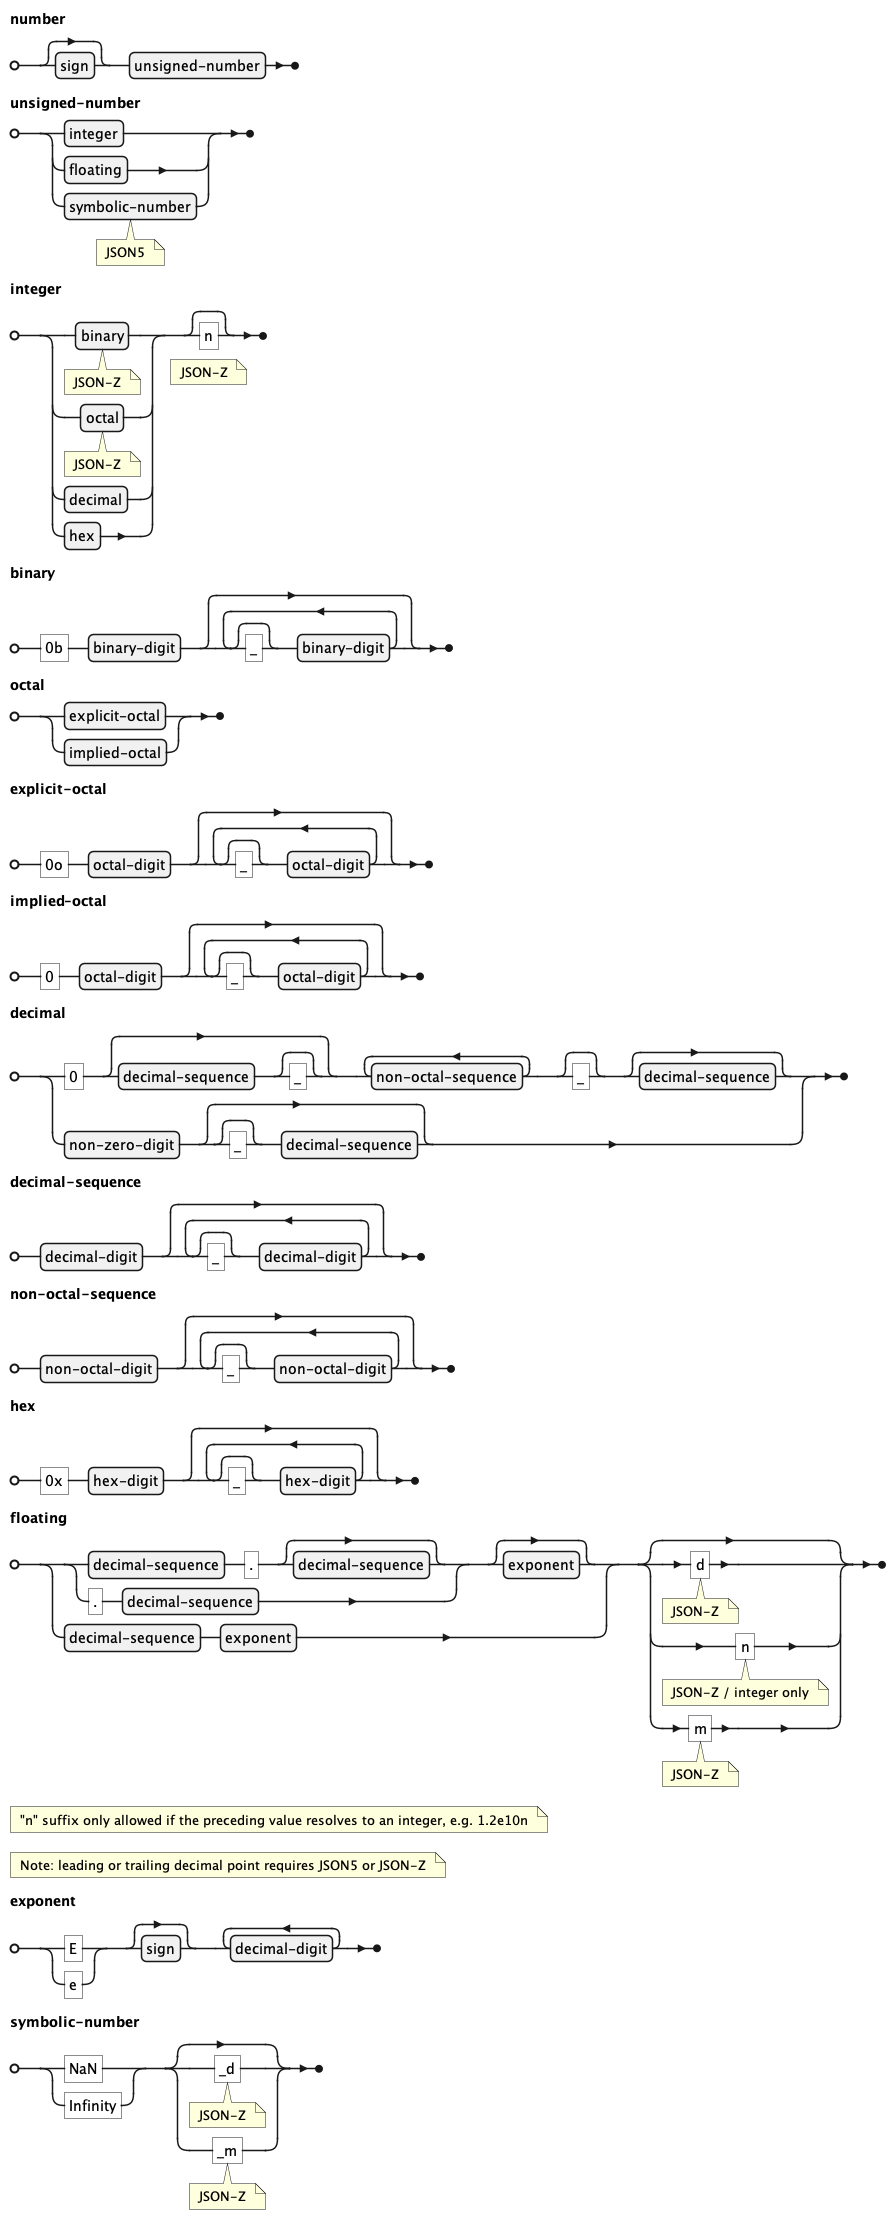
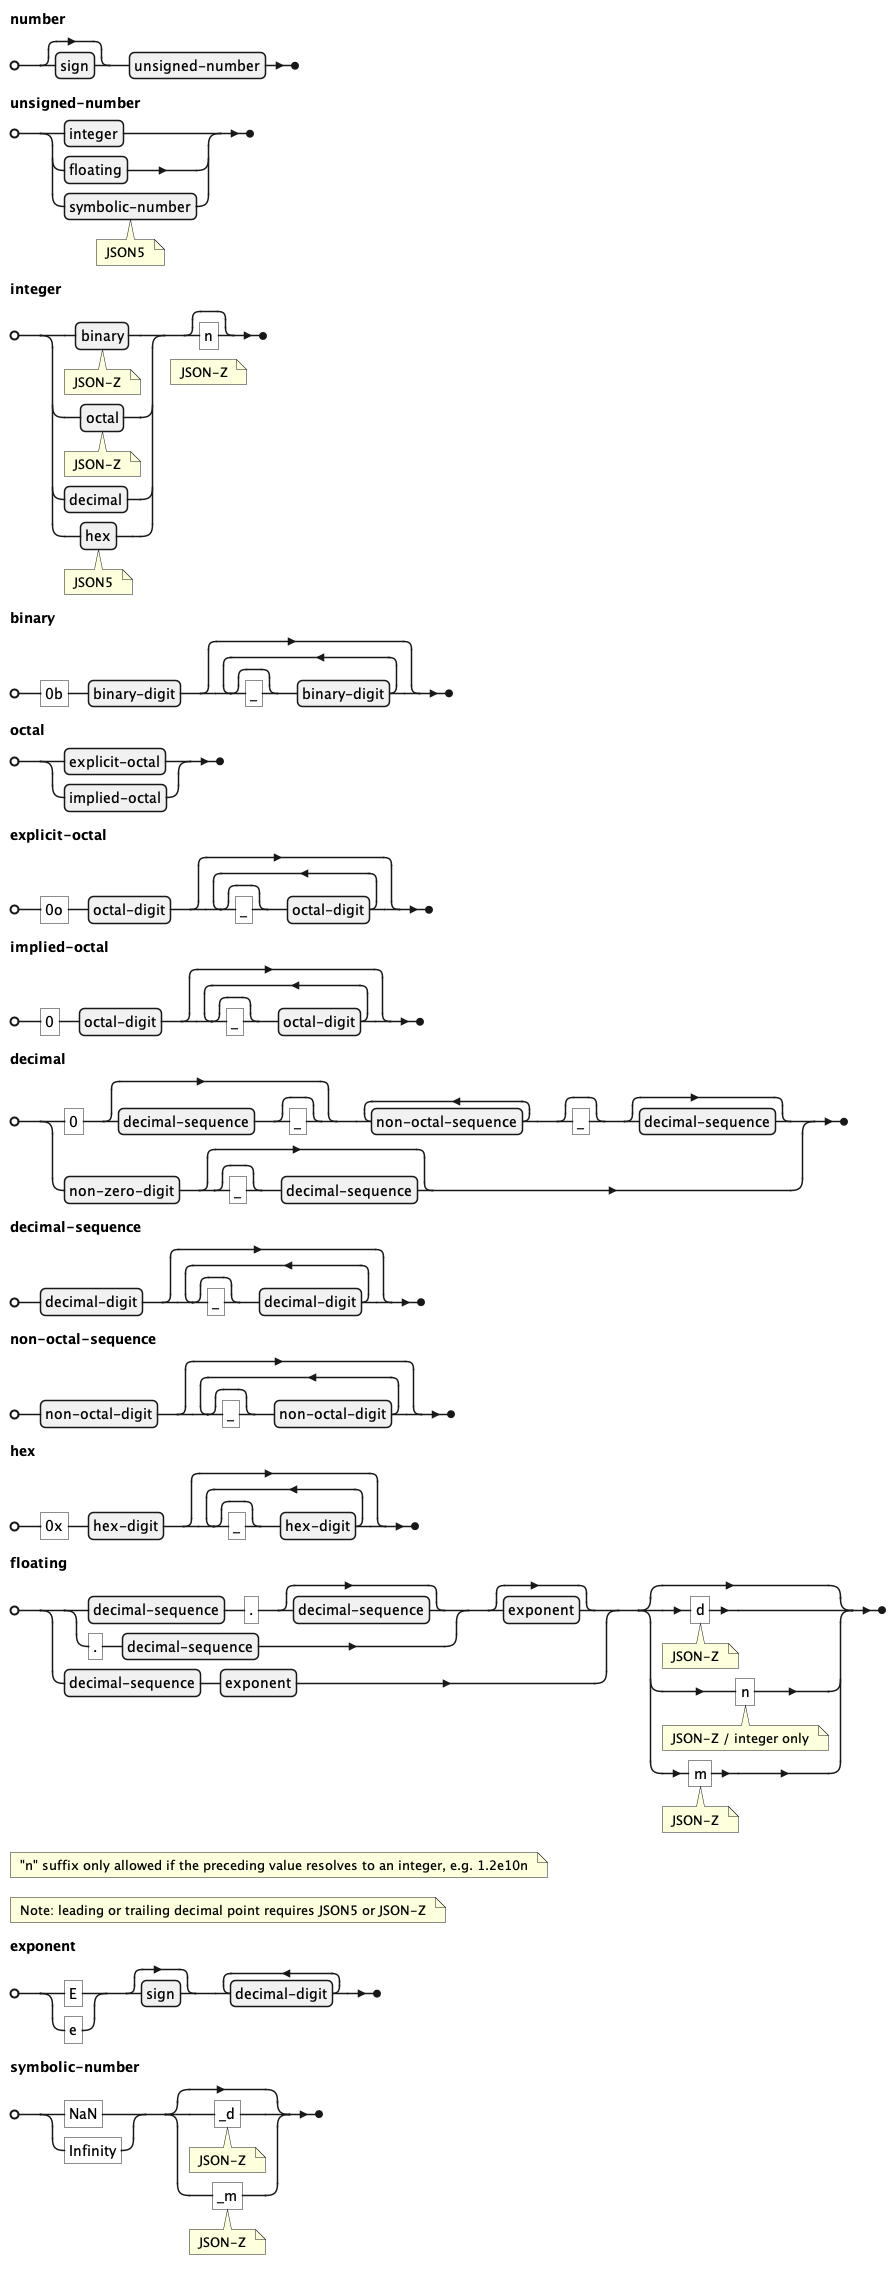
Grammar documentation updates. (#10)
* Grammar documentation updates.
* Grammar documentation updates, part 2.

Changed region(s): [[0.0, 0.0, 0.9375, 0.7409], [0.0, 0.8027, 0.625, 0.9879], [0.7188, 0.6792, 0.9688, 0.8027]]

diff --git a/GRAMMAR.md b/GRAMMAR.md
@@ -29,7 +29,7 @@ key-value-pair = ( string | identifier (* JSON5 *) ), inert-content, ":", value 
 
 identifier = identifier-start, { identifier-character };
 
-(* Indentiers are in accord with the ECMAScript 5.1 specification:
+(* Identifiers are in accord with the ECMAScript 5.1 specification:
     https://262.ecma-international.org/5.1/#sec-7.6
 
 Note: Identifiers can also use \uXXXX-style escapes with codepoints corresponding
@@ -82,7 +82,7 @@ identifier-character = identifier-start | decimal-digit | "\u200C" (* ZERO WIDTH
 
 (* Unicode spacing combining mark: https://www.compart.com/en/unicode/category/Mc
 Unicode non-spacing mark: https://www.compart.com/en/unicode/category/Mc
-Unicode decimal digit number: hhttps://www.compart.com/en/unicode/category/Nd
+Unicode decimal digit number: https://www.compart.com/en/unicode/category/Nd
 Unicode connector punctuation: https://www.compart.com/en/unicode/category/Pc *)
 
 @endebnf
@@ -97,7 +97,7 @@ number = [sign], unsigned-number ;
 
 unsigned-number = integer | floating | symbolic-number (* JSON5 *) ;
 
-integer = ( binary (* JSON-Z *) | octal (* JSON-Z *) | decimal | hex ), [ "n" ] (* JSON-Z *) ;
+integer = ( binary (* JSON-Z *) | octal (* JSON-Z *) | decimal | hex (* JSON5 *) ), [ "n" ] (* JSON-Z *) ;
 
 binary = "0b", binary-digit, { [ "_" ], binary-digit } ;
 

diff --git a/CHANGELOG.md b/CHANGELOG.md
@@ -3,6 +3,7 @@
 * JSON-Z can now be used as an ESM module. There are no functional changes, but a possible breaking change with how the package is imported:
 
 `import JSONZ from 'json-z';` instead of `import * as JSONZ from 'json-z';`
+* Updated grammar documentation.
 
 ### 4.2.1-4.2.6
 
